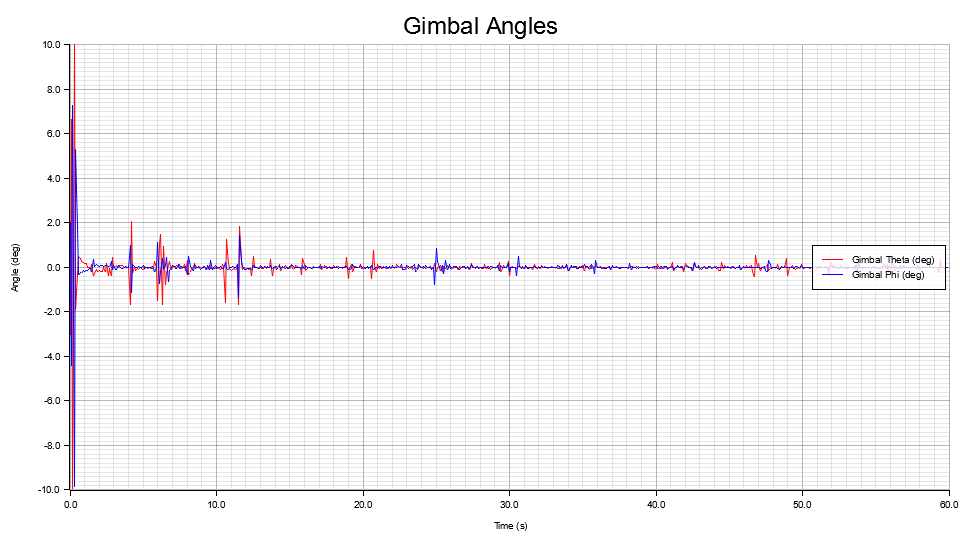
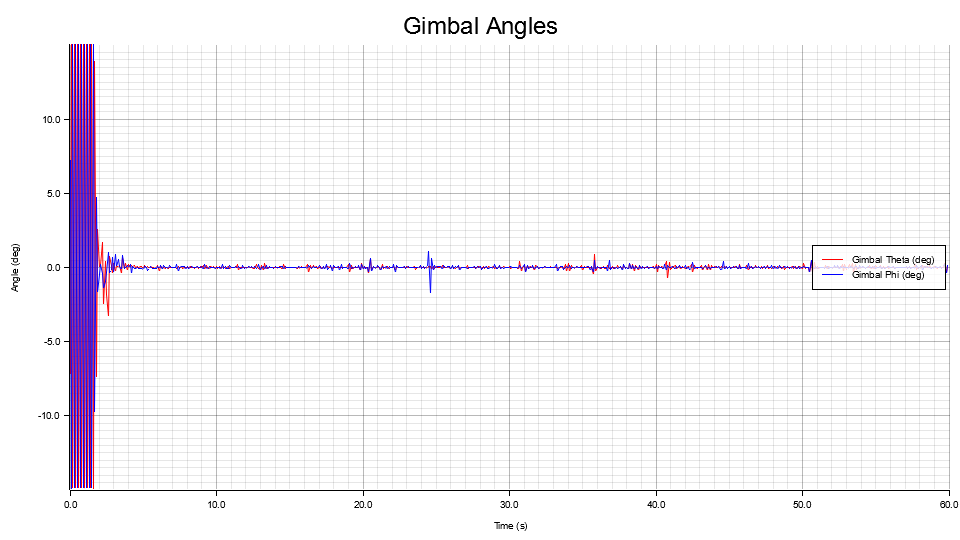
Tune MPC parameters and add control smoothing
Updated reference setpoints, cost weights, and control input bounds in main.rs for a more realistic rocket model. Increased rocket mass and inertia in mpc_crate.rs, and added control input smoothing cost and gradient to improve control signal smoothness. Cost matrices still need to be tuned for better performance

Changed region(s): [[0.0312, 0.0593, 1.0, 0.9185]]

diff --git a/MPC/src/main.rs b/MPC/src/main.rs
@@ -24,9 +24,9 @@ fn main() {
 
     // Hover at set point
     let mut xref = Array1::<f64>::zeros(n);
-    xref[0] = 3.0;
-    xref[1] = -2.0;
-    xref[2] = 8.0;
+    xref[0] = 1.0;
+    xref[1] = -1.0;
+    xref[2] = 10.0;
     xref[6] = 1.0; // reference orientation: level (unit quaternion)
 
     // Reference trajectory
@@ -34,7 +34,7 @@ fn main() {
     let xref_traj_vec: Vec<Array1<f64>> = xref_traj.axis_iter(ndarray::Axis(0)).map(|row| row.to_owned()).collect();
 
     // Warm start: hover thrust (thrust = mass * gravity, gimbal angles = 0)
-    let m_rocket = 1.0;
+    let m_rocket = 80.0;
     let g = 9.81;
     let hover_thrust = m_rocket * g;
     let mut u_warm = Array2::<f64>::zeros((n_steps, m));
@@ -44,19 +44,25 @@ fn main() {
 
     // Costs: penalize position, orientation, velocities, angular rates
     let q_vec = vec![
-        70.0, 70.0, 200.0,   // position x, y, z
-        200.0, 200.0, 200.0, 200.0, // quaternion qx, qy, qz, qw
-        50.0, 50.0, 100.0,        // linear velocities x_dot, y_dot, z_dot
-        5.0, 5.0, 5.0          // angular velocities wx, wy, wz
+        20.0, 20.0, 200.0,   // position x, y, z
+        0.0, 0.0, 0.0, 0.0, // quaternion qx, qy, qz, qw
+        3.0, 3.0, 1.0,        // linear velocities x_dot, y_dot, z_dot
+        1.0, 1.0, 1.0          // angular velocities wx, wy, wz
     ];
     let q = Array2::<f64>::from_diag(&Array1::from(q_vec.clone()));
-    let r = Array2::<f64>::from_diag(&Array1::from(vec![4000.0, 4000.0, 0.1]));
-    let qn = q.clone();
+    let r = Array2::<f64>::from_diag(&Array1::from(vec![000.0, 000.0, 0.00]));
+    // let qn = q.clone();
+    let qn = Array2::<f64>::from_diag(&Array1::from(vec![
+        200.0, 200.0, 5000.0,   // position x, y, z
+        10.0, 10.0, 10.0, 10.0, // quaternion qx, qy, qz, qw
+        10.0, 10.0, 10.0,        // linear velocities x_dot, y_dot, z_dot
+        5.0, 5.0, 5.0          // angular velocities wx, wy, wz
+    ]));
 
     // Bounds on control inputs
-    let gimbal_limit = 10.0 * PI / 180.0; // +/- 10 degrees
-    let thrust_min = 0.0;
-    let thrust_max = 20.0;
+    let gimbal_limit = 15.0 * PI / 180.0; // +/- 15 degrees
+    let thrust_min = 300.0;
+    let thrust_max = 1000.0;
     let u_min = Array1::from(vec![-gimbal_limit, -gimbal_limit, thrust_min]);
     let u_max = Array1::from(vec![gimbal_limit, gimbal_limit, thrust_max]);
 
@@ -64,11 +70,14 @@ fn main() {
     let mut x_history = Vec::with_capacity(iters);
     let mut u_history = Vec::with_capacity(iters);
 
-    let tolerance = 5e-4;
+    let tolerance = 1e-4;
     let lbfgs_memory = 20;
-    let max_iter = 1;
+    let max_iter = 200;
     let n_dim_u = m * n_steps;
     let mut panoc_cache = optimization_engine::panoc::PANOCCache::new(n_dim_u, tolerance, lbfgs_memory);
+
+    // smoothing weight vector (for gimbal_theta, gimbal_phi, thrust)
+    let smoothing_weight = Array1::from(vec![500.0, 500.0, 0.02]);
 
     for _ in 0..iters {
         // display progress
@@ -80,7 +89,7 @@ fn main() {
         // let (u_warm_vec, x_new, u_apply) = mpc_main(&x, &mut u_warm_vec, &xref_traj_vec, &q, &r, &qn, &u_min, &u_max, 2, 0.05);
         
         // OR we solve using OpEn
-        let (u_apply, u_warm) = mpc_crate::OpEnSolve(&x, &u_warm.axis_iter(ndarray::Axis(0)).map(|row| row.to_owned()).collect(), &xref_traj_vec, &q, &r, &qn, &mut panoc_cache);
+        let (u_apply, u_warm) = mpc_crate::OpEnSolve(&x, &u_warm.axis_iter(ndarray::Axis(0)).map(|row| row.to_owned()).collect(), &xref_traj_vec, &q, &r, &qn, &smoothing_weight, &mut panoc_cache);
         
         u_history.push(u_apply.clone());
 
@@ -105,7 +114,7 @@ fn main() {
             .margin(10)
             .x_label_area_size(40)
             .y_label_area_size(80)
-            .build_cartesian_2d(0f64..t_total, -5f64..15f64)
+            .build_cartesian_2d(0f64..t_total, -30f64..30f64)
             .unwrap();
 
         chart.configure_mesh()
@@ -121,18 +130,18 @@ fn main() {
 
         chart.draw_series(LineSeries::new(
             x_data.iter().cloned().zip(y_data.iter().cloned()),
-            &RED,
-        )).unwrap().label("X Position").legend(|(x, y)| PathElement::new(vec![(x, y), (x + 20, y)], &RED));
+            RED.stroke_width(5),
+        )).unwrap().label("X Position").legend(|(x, y)| PathElement::new(vec![(x, y), (x + 20, y)], RED.stroke_width(3)));
 
         chart.draw_series(LineSeries::new(
             x_data.iter().cloned().zip(z_data.iter().cloned()),
-            &BLUE,
-        )).unwrap().label("Y Position").legend(|(x, y)| PathElement::new(vec![(x, y), (x + 20, y)], &BLUE));
+            BLUE.stroke_width(5),
+        )).unwrap().label("Y Position").legend(|(x, y)| PathElement::new(vec![(x, y), (x + 20, y)], BLUE.stroke_width(3)));
 
         chart.draw_series(LineSeries::new(
             x_data.iter().cloned().zip(z_pos_data.iter().cloned()),
-            &GREEN,
-        )).unwrap().label("Z Position").legend(|(x, y)| PathElement::new(vec![(x, y), (x + 20, y)], &GREEN));
+            GREEN.stroke_width(5),
+        )).unwrap().label("Z Position").legend(|(x, y)| PathElement::new(vec![(x, y), (x + 20, y)], GREEN.stroke_width(3)));
 
         chart.configure_series_labels()
             .background_style(&WHITE.mix(0.8))

diff --git a/MPC/src/mpc_crate.rs b/MPC/src/mpc_crate.rs
@@ -12,11 +12,11 @@ use std::time::Instant;
 pub fn dynamics(x: &Array1<f64>, u: &Array1<f64>) -> Array1<f64> {
     // let mut x_next = Array1::<f64>::zeros(x.len());
     // Constants
-    let m = 1.0;
+    let m = 80.0;
     let g = 9.81;
-    let ixx = 0.2;
-    let iyy = 0.2;
-    let izz = 0.4;
+    let ixx = 20.0;
+    let iyy = 20.0;
+    let izz = 10.0;
     let dt = 0.1;
 
     // Inertia matrix and inverse
@@ -407,9 +407,53 @@ pub fn QP_cost(H: &Array2<f64>, g: &Array1<f64>, U: &Array1<f64>) -> f64 {
     let cost = 0.5 * U.t().dot(H).dot(U) + g.t().dot(U);
     cost
 }
-pub fn QP_gradient(H: &Array2<f64>, g: &Array1<f64>, U_flat: &Array1<f64>, grad_U_flat: &mut Array1<f64>) {
+pub fn QP_gradient(H: &Array2<f64>, g: &Array1<f64>, U_flat: &Array1<f64>) -> Array1<f64> {
     let grad = H.dot(U_flat) + g;
-    grad_U_flat.assign(&grad);
+    grad
+}
+
+// control smoothing cost
+pub fn calculate_delta_U(U: &Array1<f64>, m: usize) -> Array1<f64> {
+    let N = U.len() / m; // number of control steps
+    let mut delta_U = Array1::<f64>::zeros((N-1) * m);
+
+    for k in 0..(N-1) {
+        for i in 0..m {
+            delta_U[k*m + i] = U[(k+1)*m + i] - U[k*m + i];
+        }
+    }
+    
+    delta_U
+}
+
+pub fn smoothing_cost(U: &Array1<f64>, weight: &Array1<f64>, m: usize) -> f64 {
+    let delta_U = calculate_delta_U(U, m);
+    let N_delta = delta_U.len() / m; // number of delta steps (N-1)
+    
+    let mut cost = 0.0;
+    for k in 0..N_delta {
+        for i in 0..m {
+            let delta_u_ki = delta_U[k*m + i];
+            cost += weight[i] * delta_u_ki * delta_u_ki;
+        }
+    }
+    
+    cost
+}
+
+pub fn smoothing_cost_grad(U: &Array1<f64>, weight: &Array1<f64>, m: usize) -> Array1<f64> {
+    let N = U.len() / m; // number of control steps
+    let mut grad = Array1::<f64>::zeros(U.len());
+
+    for k in 0..(N-1) {
+        for i in 0..m {
+            let delta_u_ki = U[(k+1)*m + i] - U[k*m + i];
+            grad[k*m + i] -= 2.0 * weight[i] * delta_u_ki;
+            grad[(k+1)*m + i] += 2.0 * weight[i] * delta_u_ki;
+        }
+    }
+
+    grad
 }
 
 pub fn OpEnSolve(
@@ -419,6 +463,7 @@ pub fn OpEnSolve(
     Q: &Array2<f64>,
     R: &Array2<f64>,
     QN: &Array2<f64>,
+    smoothing_weight: &Array1<f64>,
     panoc_cache: &mut PANOCCache,
 ) -> (Array1<f64>, Array2<f64>) {
     use ndarray::ArrayView1;
@@ -439,28 +484,32 @@ pub fn OpEnSolve(
     // Gradient (H u + g) and cost (0.5 u^T H u + g^T u) on flat slices
     let df = |u_slice: &[f64], grad_slice: &mut [f64]| -> Result<(), SolverError> {
         let u_view = ArrayView1::from(u_slice);
-        let grad = H.dot(&u_view) + &g;
-        grad_slice.copy_from_slice(grad.as_slice().unwrap());
+        let grad = QP_gradient(&H, &g, &u_view.to_owned());
+        let smooth_grad = smoothing_cost_grad(&u_view.to_owned(), smoothing_weight, m);
+        let total_grad = &grad + &smooth_grad;
+        grad_slice.copy_from_slice(total_grad.as_slice().unwrap());
         Ok(())
     };
+    
     let f = |u_slice: &[f64], cost: &mut f64| -> Result<(), SolverError> {
         let u_view = ArrayView1::from(u_slice);
-        let Hu = H.dot(&u_view);
-        *cost = 0.5 * u_view.dot(&Hu) + g.dot(&u_view);
+        let smooth_cost = smoothing_cost(&u_view.to_owned(), smoothing_weight, m);
+        *cost = QP_cost(&H, &g, &u_view.to_owned()) + smooth_cost;
         Ok(())
     };
+
 
     // Box bounds on U (same per stage here)
     let mut u_min_flat: Vec<f64> = Vec::with_capacity(n_dim_u);
     let mut u_max_flat: Vec<f64> = Vec::with_capacity(n_dim_u);
     for _k in 0..N {
         // [gimbal_theta, gimbal_phi, thrust]
-        u_min_flat.push((-10.0_f64).to_radians());
-        u_max_flat.push(( 10.0_f64).to_radians());
-        u_min_flat.push((-10.0_f64).to_radians());
-        u_max_flat.push(( 10.0_f64).to_radians());
-        u_min_flat.push(0.0);
-        u_max_flat.push(20.0);
+        u_min_flat.push((-15.0_f64).to_radians());
+        u_max_flat.push(( 15.0_f64).to_radians());
+        u_min_flat.push((-15.0_f64).to_radians());
+        u_max_flat.push(( 15.0_f64).to_radians());
+        u_min_flat.push(300.0);
+        u_max_flat.push(1000.0);
     }
     let bounds = constraints::Rectangle::new(
         Some(&u_min_flat[..]),
